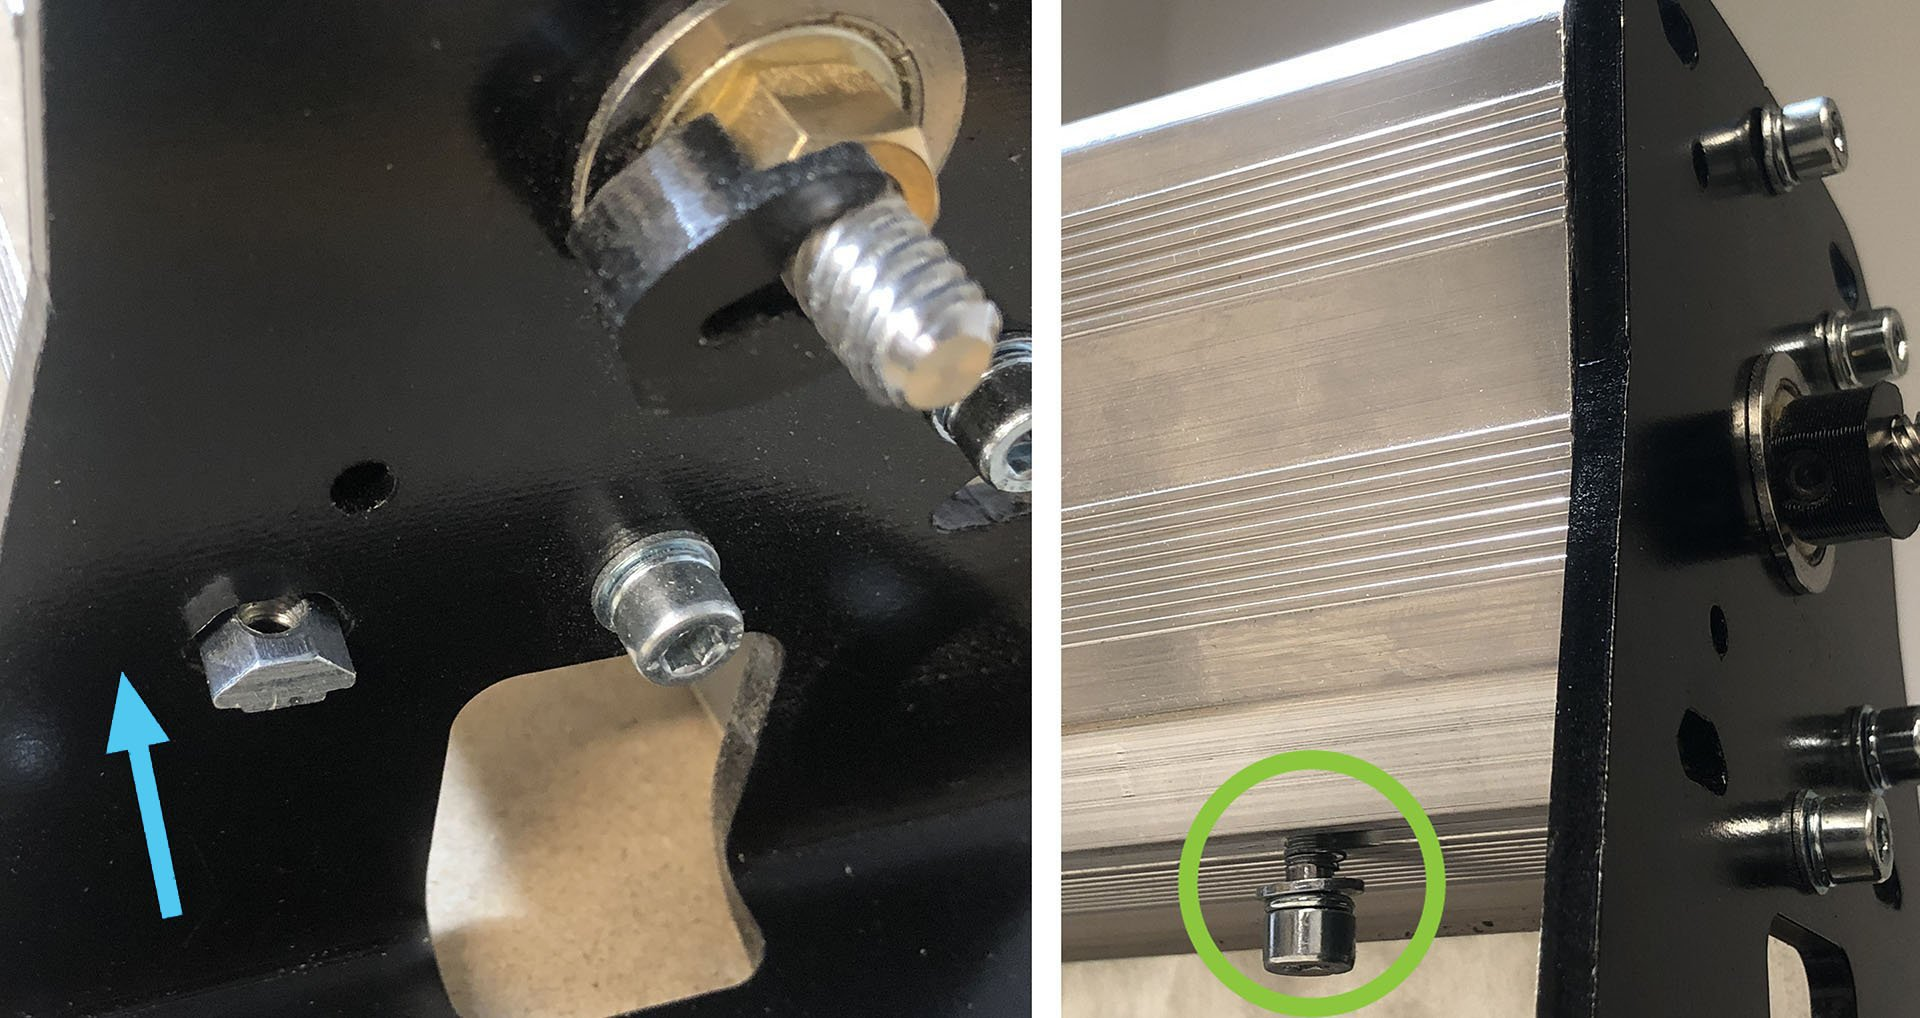
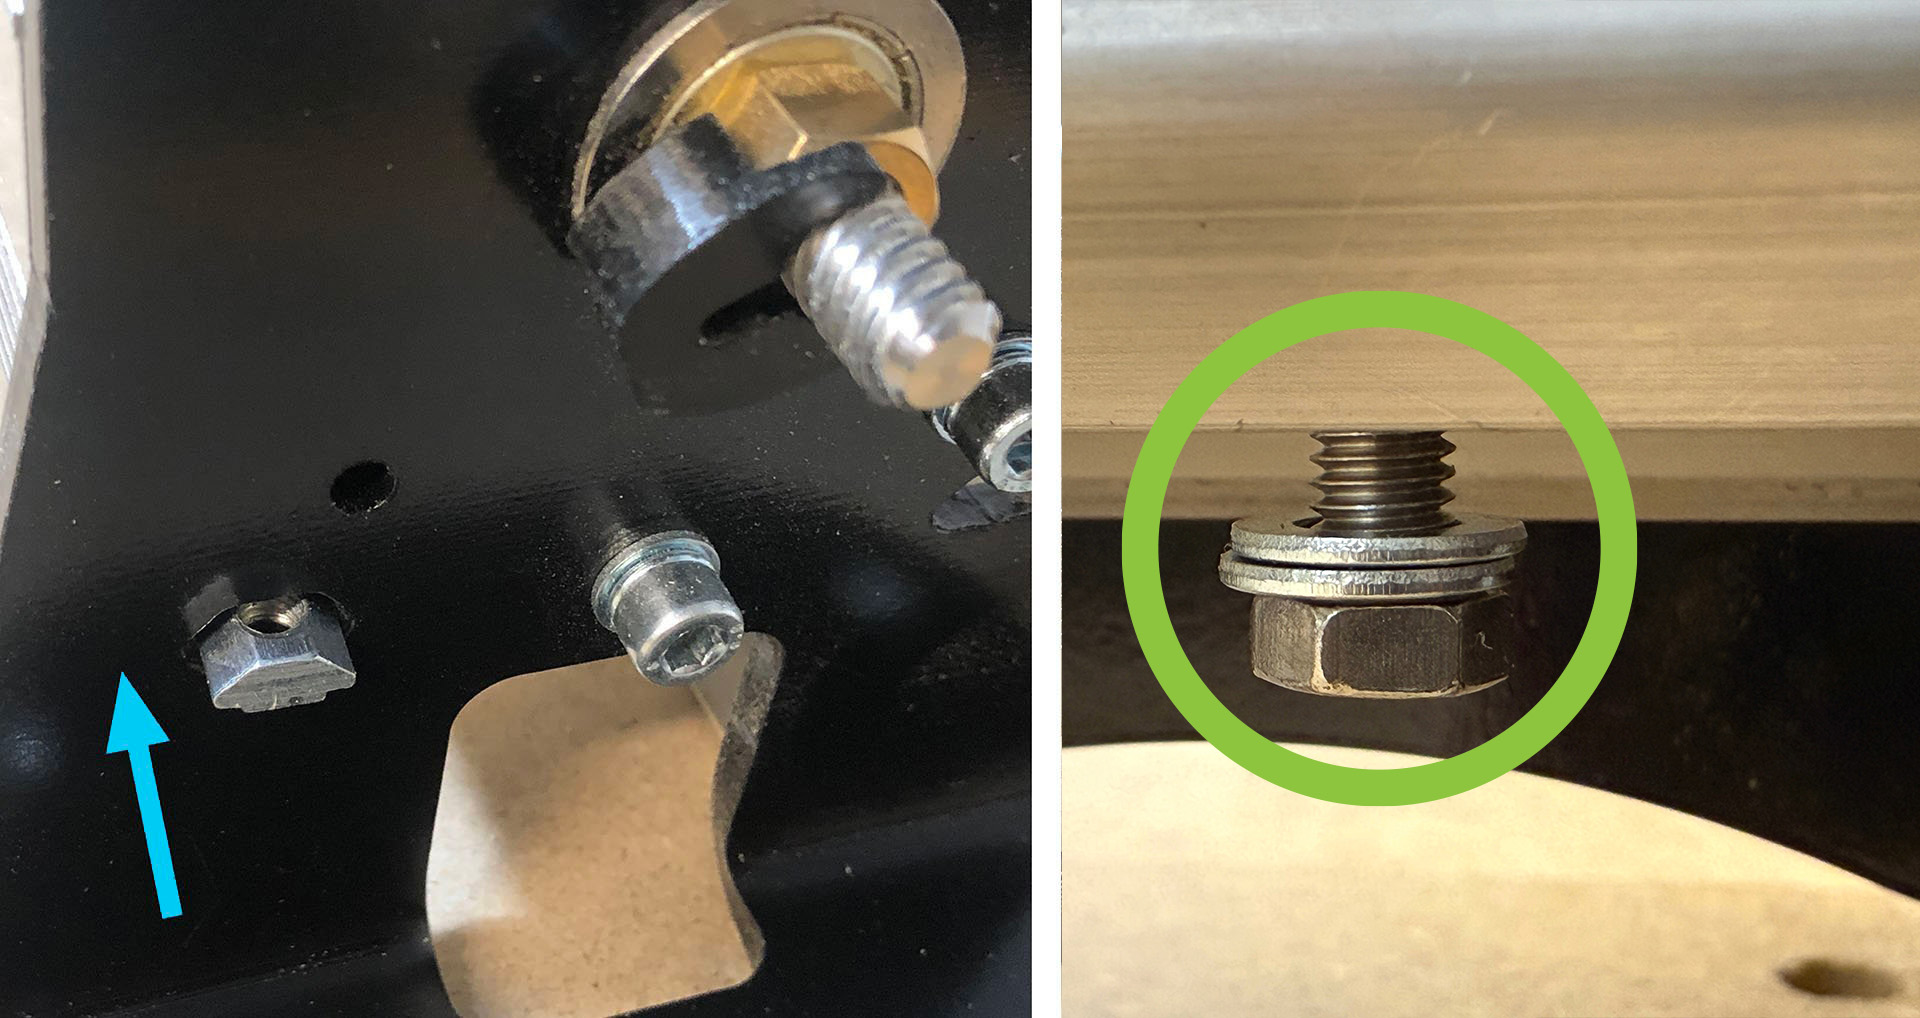
launch day details updated

diff --git a/lmmk2/lmk2-add-ons/lmk2-closed-loop-steppers.md b/lmmk2/lmk2-add-ons/lmk2-closed-loop-steppers.md
@@ -1,7 +1,7 @@
 ---
 title: Closed Loop Upgrade
 menu_order: 10
-post_status: draft
+post_status: publish
 post_excerpt: How to install and setup the Closed Loop Stepper Motors Kit
 post_date: 2022-03-17 20:11:00
 taxonomy:
@@ -12,7 +12,7 @@ custom_fields:
     KBName: LongMill MK2 CNC
     basepress_post_icon: bp-caret-right
 skip_file: no
-featured_image: 
+featured_image: _images/_lmmk2/_add-ons/_clsm-upgrade/lmk2_clsm_upgrade-allparts.jpg
 ---
 
 Switching to the Closed Loop Stepper Motors (CLSM) from the open loop motors is easy. The main difference between the open loop and the closed loop motors is that the open loop motors lack positional feedback making them prone to “skipping steps” under load. With closed loop motors there is a feedback system that helps in monitoring their positions which enables them to self-correct errors, improve accuracy and operate more efficiently.
@@ -39,18 +39,21 @@ The following components are included in the upgrade kit and are shown together 
 - Inductive sensors (x4)
 - Inductive sensor bracket (x2)
 - Motor cable set (x1 long, x3 short)
+- M5x10mm hex head screws (x2)
+- M5x12mm socket head screws + washers (x10)
+- Hex nut (x1)
 - Nylock nuts (x2)
-- M5x55 screws (x4, for dust shield addon)
+- M5x55mm socket head screws (x4, for dust shield addon)
 
 ## Motors
 
-![](/_images/_lmmk2/_add-ons/_clsm-upgrade/lmk2_clsm_upgrade_Title-Motors-Wiring.jpg){.aligncenter .size-medium}
+![](/_images/_lmmk2/_add-ons/_clsm-upgrade/lmk2_clsm_upgrade_title-glowpic.jpg){.aligncenter .size-medium}
 
 This process should take approximately 2-3 hours. To begin, jog machine to the front/center of your wasteboard, and pull the table away from the wall if possible. You can also remove your router or spindle to give you a bit more room and open all of the links on your drag chains with a small flat head screwdriver to prepare for this upgrade. Let'start with the motors!
 
 ### Remove Stepper Motors
 
-![](/_images/_lmmk2/_add-ons/_clsm-upgrade/lmk2_clsm_upgrade-Header1.jpg){.aligncenter .size-full .wid}
+![](/_images/_lmmk2/_add-ons/_clsm-upgrade/lmk2_clsm_upgrade-header1.jpg){.aligncenter .size-full .wid}
 
 We will be removing all 4 of the open loop motors (X-axis, Z-axis + 2 Y-axis motors) The process is the same for all 4 of the motors. We begin with the X-axis motor, on the left side of the machine.
 
@@ -78,7 +81,11 @@ Ok, nicely done! We will now run the process we just completed, in reverse. Grab
 
 ![](/_images/_lmmk2/_add-ons/_clsm-upgrade/lmk2_clsm_upgrade-header2.jpg){.aligncenter .size-full .wid}
 
-Let's begin by sliding each M5-50mm bolt into a matching 40mm spacer. Thread each bolt/spacer into the corresponding 4 holes to secure the motor in place. Using either a drill or an M5 allen key, tighten each spacer/bolt combo.
+Let's begin by sliding each M5-50mm bolt into a matching 40mm spacer.
+
+**Note - If you are using a dust shield, use 4 M5 - 55mm socket head screws
+
+Thread each bolt/spacer into the corresponding 4 holes to secure the motor in place. Using either a drill or an M5 allen key, tighten each spacer/bolt combo.
 
 ![](/_images/_lmmk2/_add-ons/_clsm-upgrade/lmk2_clsm_upgrade-motor-installjpg.jpg){.aligncenter .size-medium}
 
@@ -98,6 +105,8 @@ Now that we've replaced the one motor, **proceed to do the exact same 3 steps wi
 - Tighten down M-50 screws
 - Tighten coupler
 
+If you have dust shields on your y-axis rails, replace the two M5-50mm screws with the included M5-55mm screws on the inside standoffs/spacers for both y-axis motors. This will allow the dust shields to sit on those new screws slightly.
+
 #### Dip Switches
 
 The motors should arrive with the DIP switches in the correct position for use with the stock settings.
@@ -106,9 +115,11 @@ Check to ensure the DIP switches on the X and Y axis motors follow the order of:
 
 ![](/_images/_lmmk2/_add-ons/_clsm-upgrade/lmk2_clsm_upgrade-z-dip-switch.jpg){.aligncenter .size-medium}
 
-### Remove Old Sensors
+## Sensors
 
 With the upgraded motors and SLB EXT, you will receive new limit switches with short pigtail connectors. In this section, we will swap out the originals and install the new ones.
+
+### Remove Old Sensors
 
 Locate your X-axis & Z-axis sensors and loosen the nuts, then remove them.
 
@@ -124,20 +135,24 @@ For your Y-axis sensor, remove the bracket from the rail, we will be moving it t
 
 For the Z & X-axis, you can simply pop the new pigtail limit switches into the old holes, and tighten the nuts down again. This process is exactly the same for the Z-axis and the X-axis, but differs a bit for the two Y-axis switches.
 
-For the Y-axis, we will be using a bracket to mount the sensor under the Y-axis rails, and pushing them to the back left and right corners. Mount each sensor onto your bracket as shown.
+For the Y-axis, we will be using a bracket to mount the sensor under the Y-axis rails, and pushing them to the back left and right corners. Mount each sensor onto a bracket as shown.
 
 ![](/_images/_lmmk2/_add-ons/_clsm-upgrade/lmk2_clsm_upgrade-yaxislimit-position.jpg)
 {.align-center .size-medium}
 
-Slip an M5-T Nut into the slot at the back of both Y-axis rails and secure it with an M5-12 mm socket head screw. Do not tighten this all the way down yet, as we will be sliding the bracket onto it.
+Slip an M5-T Nut into the slot at the back of both Y-axis rails and secure it with an M5-10 mm hex head screw, with **two washers**. Do not tighten this all the way down yet, as we will be sliding the bracket onto it. You can use the wrench that shipped with your LongMill, or one you have in your shop to assist in this step.
 
 ![](/_images/_lmmk2/_add-ons/_clsm-upgrade/lmk2_clsm_upgrade-yaxis-slot.jpg){.align-center .size-medium}
 
-Slide the bracket onto the 12mm M5 screw until it bottoms out, then tighten down the screw, while holding the sensor. Adjust the sensor so that it sticks out slightly, allowing it to trigger.
+Slide the bracket onto the 10mm M5 screw until it bottoms out, then tighten down the screw, while holding the sensor.
 
-![](/_images/_lmmk2/_add-ons/_clsm-upgrade/lmk2_clsm_upgrade-yaxis.jpg){.align-center .size-medium}
+![](/_images/_lmmk2/_add-ons/_clsm-upgrade/lmk2_clsm_upgrade-yaxis-tighten.jpeg){.align-center .size-medium}
 
-**Repeat this step for both ends of the Y-axis.**
+Adjust the sensors so that they stick out slightly, allowing it to trigger the sensor on the wheels, without hitting them. You may need to adjust and test this step out to ensure you are not hitting, but are getting a positive signal each time the y-axis sensors are triggered.
+
+![](/_images/_lmmk2/_add-ons/_clsm-upgrade/lmk2_clsm_upgrade-yaxis-adjust.jpg "Y-axis Left and Right sensor looking from the back of the machine"){.align-center .size-medium}
+
+**Repeat this step for both ends of the Y-axis (Right and Left).**
 
 ## Wiring
 
@@ -155,19 +170,23 @@ With the new, larger drag chain in hand, remove the end links, so we can install
 
 ![](/_images/_lmmk2/_add-ons/_clsm-upgrade/lmk2_clsm_upgrade-dragremove.jpg){.align-center .size-medium}
 
-Grab the drag chain mount, 2 x M5 T-nuts and 2 x M5-12mm screw and attach the drag chain mount. You can re-use your M5 T-nuts in this step if you wish.
+Grab the drag chain mount, 2 x M5 T-nuts and 2 x M5-12mm screws and attach the new black drag chain mount to replace where you old silver one was. You can re-use your M5 T-nuts in this step if you wish.
 
 ![](/_images/_lmmk2/_add-ons/_clsm-upgrade/lmk2_clsm_upgrade-dragchainmount.jpg){.align-center .size-medium}
 
-Now you can use another M5-12mm screw to secure the drag chain end link that has open ends.
+Now you can use another M5-12mm screw to secure the drag chain end link that has open ends. This hole is threaded, so no need for a nut here.
 
 ![](/_images/_lmmk2/_add-ons/_clsm-upgrade/lmk2_clsm_upgrade-endlinktop.jpg){.align-center .size-medium}
 
-Moving to the Y-axis where the old drag chain was, slide 4 M5 T-nuts into the rail, as we will be using them to support the 4 drag chain brackets. Place a washer down, then an M5-12mm screw will hold down the bracket. Space them out evenly, using fewer if you have a smaller footprint.
+Moving to the Y-axis where the old drag chain was, move to the back and slide 4 M5 T-nuts into the rail. We will be using these to support the 4 drag chain brackets. Place a washer down, then an M5-12mm screw will hold down the bracket. Space them out evenly, using fewer if you have a smaller footprint.
 
 ![](/_images/_lmmk2/_add-ons/_clsm-upgrade/lmk2_clsm_upgrade-dragchain2.jpg){.align-center .size-medium}
 
 Now we can attach the final drag chain end to the last drag chain bracket with an M5-12mm screw and the nylock nut.
+
+![](/_images/_lmmk2/_add-ons/_clsm-upgrade/lmk2_clsm_upgrade-nylocknut.jpg){.align-center .size-medium}
+
+One tip that can help out in this step is to **put the drag chain end on before you put the bracket onto the rail as pictured above**.
 
 ![](/_images/_lmmk2/_add-ons/_clsm-upgrade/lmk2_clsm_upgrade-endlinkbotttom.jpg){.align-center .size-medium}
 
@@ -235,17 +254,18 @@ Plug the two-pronged motor power connectors into the two rightmost power ports. 
 
 ![](/_images/_lmmk2/_add-ons/_clsm-upgrade/lmk2_clsm_upgrade-ymotorplug.jpg){.align-center .size-medium}
 
-Reinstall the acrylic face plate of the SLB-EXT onto the enclosure. Tighten the thumb screw by hand. Plug the green connector of the E-stop cable into the port labelled E-stop on the right side of the controller, and the other side of the cable into the E-stop.
+Reinstall the acrylic face plate of the SLB-EXT onto the enclosure. Tighten the thumb screw by hand. Plug the green connector of the E-stop cable into the port labelled E-stop on the left side of the controller, and the other side of the cable into the E-stop.
 
-**Insert Pic Here**
-
-Plug the green connector of the 48V power supply into the port labelled Power & plug the power supply into a 110V outlet.
-
-**Insert Pic Here**
+Plug the green connector of the 48V power supply into the port labelled Power & plug the power supply into a 110V outlet. You can now flip the ON/OFF switch to power up your new board!
 
 ## Software Changes
 
-Once your setup is complete and everything is secure and plugged into the SLB EXT, we will need to adjust the motor speed in your sending software. Simply download this macro and run it in gSender, and your settings will automatically update! You can click on the link below to go to a google folder and download the file.
+Once your setup is complete and everything is secure and plugged into the SLB EXT, we will need to adjust two items:
+
+- the motor speed in your sending software
+- the direction of homing (We are now going to the back left corner by default)
+
+You can tweak these settings manually, or, you can use our Macro instead! Simply download this macro and run it in gSender, and your settings will automatically update. You can click on the link below to go to a google folder and download the file (**lmk2_clsm_macro.json**).
 
 [Closed Loop Stepper Motor Macro](https://drive.google.com/drive/folders/1cCXB1dCWpowHjJuEUF3RIYLrTxjNG10j?usp=sharing){.align-center}
 
@@ -263,6 +283,16 @@ Once the macro is loaded into gSender, click on it to run.
 
 The macro will automatically update your motor settings! You can double check that they are correct by matching the configuration shown below.
 
-![](/_images/_lmmk2/_add-ons/_clsm-upgrade/lmk2_clsm_upgrade-macroadjusted.jpg){.align-center .size-medium}
+![](/_images/_lmmk2/_add-ons/_clsm-upgrade/lmk2_clsm_upgrade-macro-axis-settings.jpg){.align-center .size-medium}
+
+The Macro will also flip your homing direction for the Y-axis, by turning it off. Here you can see that only X is toggled on. This will send the machine to the back when homing, where your new sensors are installed!
+
+![](/_images/_lmmk2/_add-ons/_clsm-upgrade/lmk2_clsm_upgrade-macro-settings.jpg){.align-center .size-medium}
 
 Congrats! You have now completed the installation and setup of your new Closed Loop Stepper Motor Kit. Go carve something cool friend!
+
+## Open Source
+
+Here you can find the schematics/drawings that are available for download.
+
+[Take me to the files!](https://drive.google.com/drive/folders/1nnLDaa0WipzLcEGQt92obk_tss4Uf9-2?usp=sharing)
